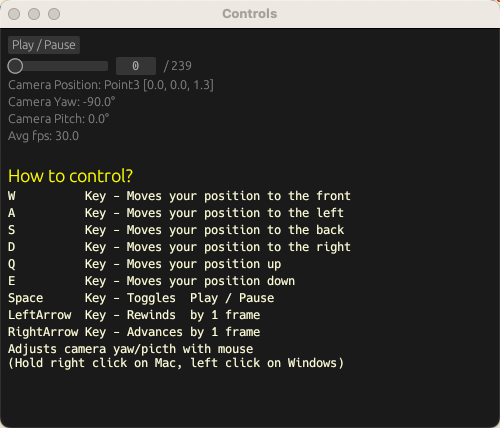
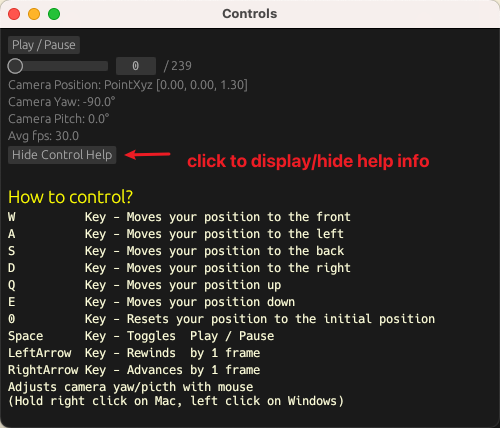
fix minor bug
update readme, fix small bugs

diff --git a/src/pipeline/subcommands/info.rs b/src/pipeline/subcommands/info.rs
@@ -122,13 +122,13 @@ impl DirInfo {
             ));
         }
 
-        if if_print_all || args.num_of_points {
+        if if_print_all || args.num_of_frames {
             info_string.push_str(&format!("number of frames: {}\n", self.num_of_frames));
         }
 
         if if_print_all || args.num_of_points {
             info_string.push_str(&format!(
-                "number of points: {:.2}\n",
+                "average number of points: {:.2}\n",
                 self.avg_num_of_points
             ));
         }
@@ -207,7 +207,7 @@ impl Info {
 impl Subcommand for Info {
     fn handle(&mut self, messages: Vec<PipelineMessage>, channel: &Channel) {
         if messages.is_empty() {
-            println!("self.args {:?}", self.args);
+            // println!("self.args {:?}", self.args);
             let path = Path::new(&self.args.path);
 
             if path.is_file() {

diff --git a/src/pipeline/subcommands/metrics.rs b/src/pipeline/subcommands/metrics.rs
@@ -13,7 +13,7 @@ use super::Subcommand;
     override_usage = format!("\x1B[1m{}\x1B[0m [OPTIONS] +input=original,reconstructure +output=metrics", "metrics")
 )]
 pub struct Args {
-    #[clap(long, num_args = 1.., value_delimiter = ' ', default_value = "all")]
+    #[clap(short, long, num_args = 1.., value_delimiter = ',', default_value = "all")]
     metrics: Vec<SupoportedMetrics>,
 }
 

diff --git a/README.md b/README.md
@@ -38,6 +38,9 @@ Commands:
                   Then uses write command to write the metrics into a text file.
   downsample  Downsample a pointcloud from the stream
   upsample    Upsamples a pointcloud from the stream
+  info        Get the info of a pointcloud file or directory.
+                  Supported formats are .pcd and .ply.
+                  If no option is specified, all info will be printed.
   help        Print this message or the help of the given subcommand(s)
 
 Options:
@@ -110,15 +113,18 @@ vv read ./Ply +output=plys \
 
 #### `metrics`
 
-Calculates the metrics given two input streams where the first input stream is the original and the second is the reconstructed one. Then uses `write` command to write the metrics into a text file.
+Calculates the metrics given two input streams where the first input stream is the original and the second is the reconstructed one. Then uses `write` command to write the metrics into a text file. Currently we support a number of commanly used metrics such as `ACD(Asymmetric Chamfer Distance)`, `CD(Chamfer Distance)`, `CD-PSNR`, `HD(Hausdorff Distance)`, `L-CPSNR(Luminance Color PSNR)`, `VQoE(Viola et al.’s QoE)`.
+If no metric is specified, all metrics will be outputed.
 
 ```shell
 Usage: metrics [OPTIONS]
 
 Options:
-  -m, --metric <METRIC>  [default: psnr] [possible values: psnr]
+  -m, --metrics <METRICS>...  [default: all] [possible values: acd, cd, cd-psnr, hd, lc-psnr, v-qoe, all]
   -h, --help             Print help
 ```
+
+The following command will write all metrics.
 
 ```shell
 vv read ./original +output=original \
@@ -126,6 +132,16 @@ vv read ./original +output=original \
         metrics +input=original,reconstructed +output=metrics \
         write ./metrics +input=metrics
 ```
+
+Specify the metrics by using --metrics, use space ',' as a delimiter for more than one metric.
+
+```shell
+vv read ./original +output=original \
+        read ./reconstructed +output=reconstructed \
+        metrics +input=original,reconstructed +output=metrics --metrics acd,cd,hd \
+        write ./metrics +input=metrics
+```
+
 
 #### `write`
 
@@ -218,7 +234,7 @@ vv read ./pcd                       +output=pcdb \
 
 #### `convert`
 
-We recognize that some users may just want to convert a file from one format to another. So `convert` is provided as a shortcut for `read` and `write`. Currently we support any conversion between ply and pcd. For `convert`, named input-ouput is not needed.
+We recognize that some users may just want to convert a file from one format to another. So `convert` is provided as a shortcut for `read` and `write`. Currently we support any conversion between ply and pcd. We also support converting files from velodyne's bin file to ply/pcd. For `convert`, named input-ouput is not needed.
 
 ```shell
 Usage: convert [OPTIONS] --output <OUTPUT>
@@ -249,31 +265,105 @@ vv convert --input ./pcd_b --output ./ply_a --storage-type ascii --output-format
 vv convert --input ./pcd_b --output ./pcd_a --storage-type ascii --output-format pcd
 ```
 
-### `vvplay`
-
-Plays a folder of pcd/ply files in lexicographical order. A window will appear upon running the binary from which you can navigate using your mouse and keyboard. Controls are described further below.
+#### `info`
+Get the info of a pointcloud file or directory. Supported formats are .pcd and .ply. If no option is specified, all info will be printed.
 
 ```shell
-Plays a folder of pcd files in lexicographical order
+Usage: info [OPTIONS] <PATH>
 
-USAGE:
-    vvplay.exe [OPTIONS] <DIRECTORY>
+Arguments:
+  <PATH>  
 
-ARGS:
-    <DIRECTORY>    Directory with all the pcd files in lexicographical order
+Options:
+      --num-of-points  Get the number of points in a file
+      --format         Get the format of a file
+      --num-of-frames  Get the number of frames in a directory
+  -h, --help           Print help
+```
 
-OPTIONS:
-    -b, --buffer-size <BUFFER_SIZE>    [default: 1]
-        --controls
-    -f, --fps <FPS>                    [default: 30]
-    -h, --height <HEIGHT>              [default: 900]
-        --help                         Print help information
-        --pitch <CAMERA_PITCH>         [default: 0]
-    -w, --width <WIDTH>                [default: 1600]
-    -x, --camera-x <CAMERA_X>          [default: 0]
-    -y, --camera-y <CAMERA_Y>          [default: 0]
-        --yaw <CAMERA_YAW>             [default: -90]
-    -z, --camera-z <CAMERA_Z>          [default: 1.3]
+***Examples***  
+**info** for a pointcloud file
+
+```shell
+vv info foo.ply
+```
+
+The encoding format(ascii or binary) of the file, the number of points will be printed.
+
+```shell
+format: pcd ASCII
+number of points: 693899
+```
+
+**info** for a directory that contains pointcloud file
+
+```shell
+vv info ./longdress/Ply
+```
+
+The encoding format(ascii or binary) of the file in the directory, the number frames and the adverage of points will be printed.
+
+```shell
+format: pcd BINARY
+number of frames: 240
+average number of points: 728297.04
+```
+
+If more than one file format exists in the given directory, the summary of respective type will be printed.
+
+```shell
+vv info ./longdress/all_types
+```
+
+will output
+
+```shell
+format: pcd ASCII
+number of frames: 2
+average number of points: 688515.00
+
+format: ply BINARY
+number of frames: 2
+average number of points: 649491.00
+
+format: pcd BINARY
+number of frames: 2
+average number of points: 671719.00
+
+format: ply ASCII
+number of frames: 2
+average number of points: 688515.00
+```
+
+### `vvplay`
+
+Plays a folder of pcd/ply/bin files in lexicographical order. A window will appear upon running the binary from which you can navigate using your mouse and keyboard. Controls are described further below.
+
+```shell
+Plays a folder of point cloud files in lexicographical order
+
+Usage: vvplay [OPTIONS] <SRC>
+
+Arguments:
+  <SRC>  src can be: 1. Directory with all the pcd files in lexicographical order 2. location of the mpd file
+
+Options:
+  -q, --quality <QUALITY>            [default: 0]
+  -f, --fps <FPS>                    [default: 30]
+  -x, --camera-x <CAMERA_X>          [default: 0]
+  -y, --camera-y <CAMERA_Y>          [default: 0]
+  -z, --camera-z <CAMERA_Z>          [default: 1.3]
+      --yaw <CAMERA_YAW>             [default: -90]
+      --pitch <CAMERA_PITCH>         [default: 0]
+  -W, --width <WIDTH>                [default: 1600]
+  -H, --height <HEIGHT>              [default: 900]
+      --controls                     
+  -b, --buffer-size <BUFFER_SIZE>    
+  -m, --metrics <METRICS>            
+      --decoder <DECODER_TYPE>       [default: noop] [possible values: noop, draco]
+      --decoder-path <DECODER_PATH>  
+      --bg-color <BG_COLOR>          [default: rgb(255,255,255)]
+  -h, --help                         Print help
 ```
 
 ### Controls
@@ -284,12 +374,13 @@ With the main screen focused,
 2. `A` Key - Moves your position to the left
 3. `S` Key - Moves your position to the back
 4. `D` Key - Moves your position to the right
-5. 'Q' Key - Moves your position up
+5. `Q` Key - Moves your position up
 6. `E` Key - Moves your position down
-7. `Space` Key - Toggles Play/Pause
-8. `LeftArrow` Key - Rewinds by 1 frame
-9. `RightArrow` Key - Advances by 1 frame
-10. `Mouse` Drag - Adjusts camera yaw / pitch (Hold right click on Mac, left click on Windows)
+7. `0` Key - Resets your position to the initial position
+8. `Space` Key - Toggles Play/Pause
+9. `LeftArrow` Key - Rewinds by 1 frame
+10. `RightArrow` Key - Advances by 1 frame
+11. `Mouse` Drag - Adjusts camera yaw / pitch (Hold right click on Mac, left click on Windows)
 
 With the secondary window focused,
 
@@ -314,6 +405,15 @@ You can buffer the render with a set number of frames using `-b`
 
 ```shell
 vvplay ./pcds -b 100
+```
+
+You can specify the background color using `--bg-color` in the following two ways.
+1. use rgb value: rgb(r,g,b)
+2. use hex rgb number: #RRGGBB
+
+```shell
+vvplay ./pcds --bg-color "#9ef244"
+vvplay ./pcds --bg-color "rgb(10,23,189)"
 ```
 
 ### `vvdash`
